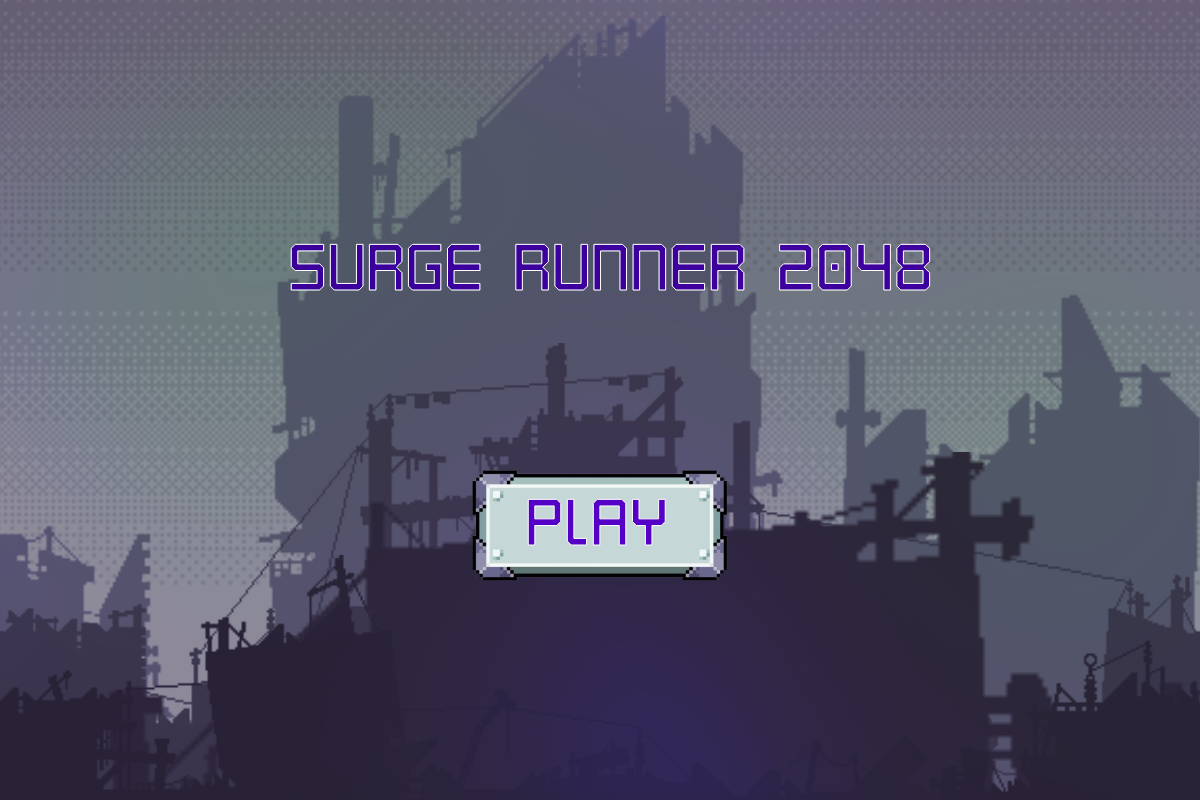
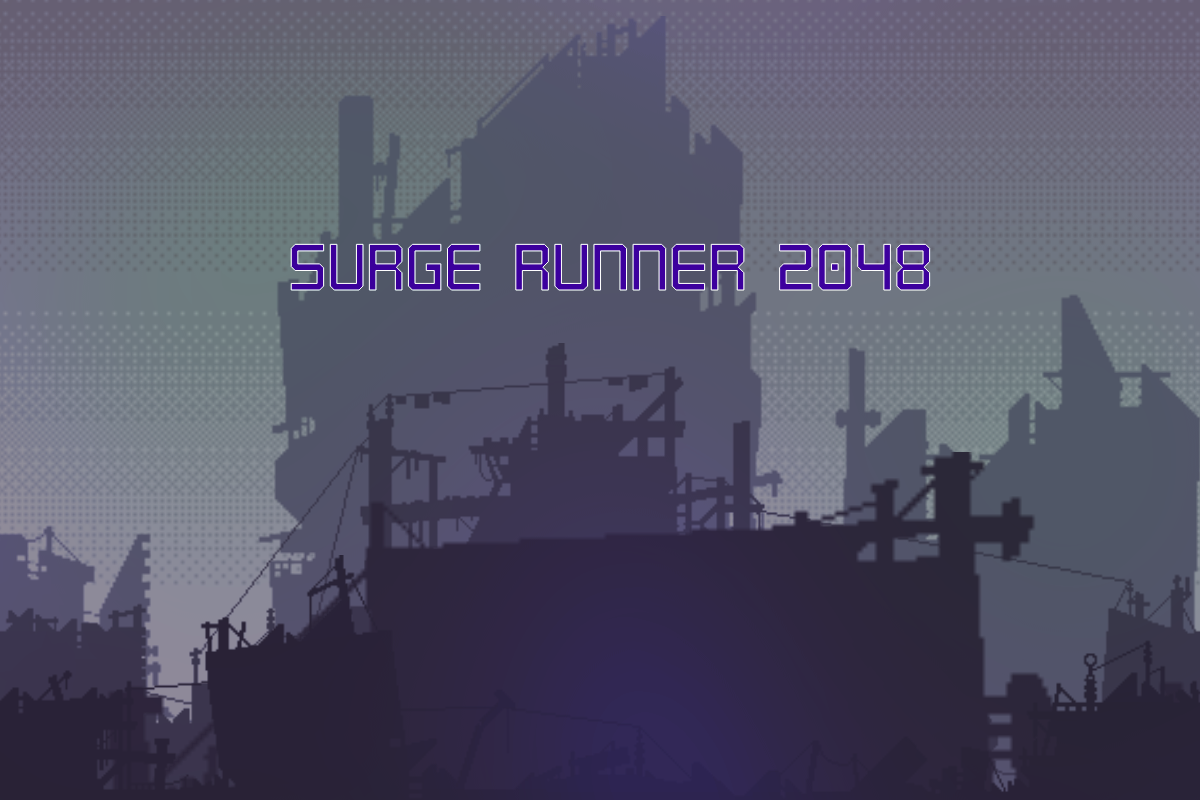
Update menu et correction avec MainWindow

Changed region(s): [[0.37, 0.5625, 0.6167, 0.75]]

diff --git a/MaelKiller/Menu.xaml b/MaelKiller/Menu.xaml
@@ -5,17 +5,14 @@
         xmlns:mc="http://schemas.openxmlformats.org/markup-compatibility/2006"
         xmlns:local="clr-namespace:MaelKiller"
         mc:Ignorable="d"
-        Title="Menu" Height="800" Width="1200">
+        Title="Menu" Height="800" Width="1200" ResizeMode="NoResize">
     <Canvas>
-        <Rectangle Height="784" Stroke="Black" Width="1200" HorizontalAlignment="Center" VerticalAlignment="Top">
-            <Rectangle.Fill>
-                <ImageBrush ImageSource="/ressources/img/Menu/MENU.png"/>
-            </Rectangle.Fill>
+        <Rectangle x:Name="rectFond" Height="784" Stroke="Black" Width="1200" HorizontalAlignment="Center" VerticalAlignment="Top">
         </Rectangle>
         <ComboBox x:Name="cbChoixDifficulte" Height="30" Width="150" Canvas.Left="525" Canvas.Top="627" HorizontalAlignment="Center" VerticalAlignment="Top">
             <ComboBoxItem x:Name="cbiDiffNormale" IsSelected="True" Content="Normale"/>
             <ComboBoxItem x:Name="cbiDiffExtreme" Content="Extrême"/>
         </ComboBox>
-        <Button Content="Button" Height="106" Canvas.Left="473" Canvas.Top="462" Width="251" Background="{x:Null}" Foreground="{x:Null}" BorderBrush="{x:Null}" Click="Button_Click"/>
+        <Button x:Name="butPlay" Content="" Height="106" Canvas.Left="473" Canvas.Top="462" Width="251" BorderBrush="{x:Null}" Click="Button_Click" Background="White" Foreground="{x:Null}"/>
     </Canvas>
 </Window>

diff --git a/MaelKiller/Menu.xaml.cs b/MaelKiller/Menu.xaml.cs
@@ -19,14 +19,26 @@ namespace MaelKiller
     /// </summary>
     public partial class Menu : Window
     {
+        public bool extremeDiff = false;
         public Menu()
         {
             InitializeComponent();
+            ImageBrush brush1 = new ImageBrush();
+            brush1.ImageSource = new BitmapImage(new Uri(AppDomain.CurrentDomain.BaseDirectory + "ressources/img/Menu/MENU.png"));
+            rectFond.Fill = brush1;
+            ImageBrush brush2 = new ImageBrush();
+            brush2.ImageSource = new BitmapImage(new Uri(AppDomain.CurrentDomain.BaseDirectory + "ressources/img/Menu/boutonPlay.png"));
+            butPlay.Background = brush2;
         }
 
         private void Button_Click(object sender, RoutedEventArgs e)
         {
-
+            if (cbiDiffExtreme.IsSelected = true)
+            { 
+                extremeDiff = true; 
+            }
+            this.Close();
         }
+                
     }
 }
